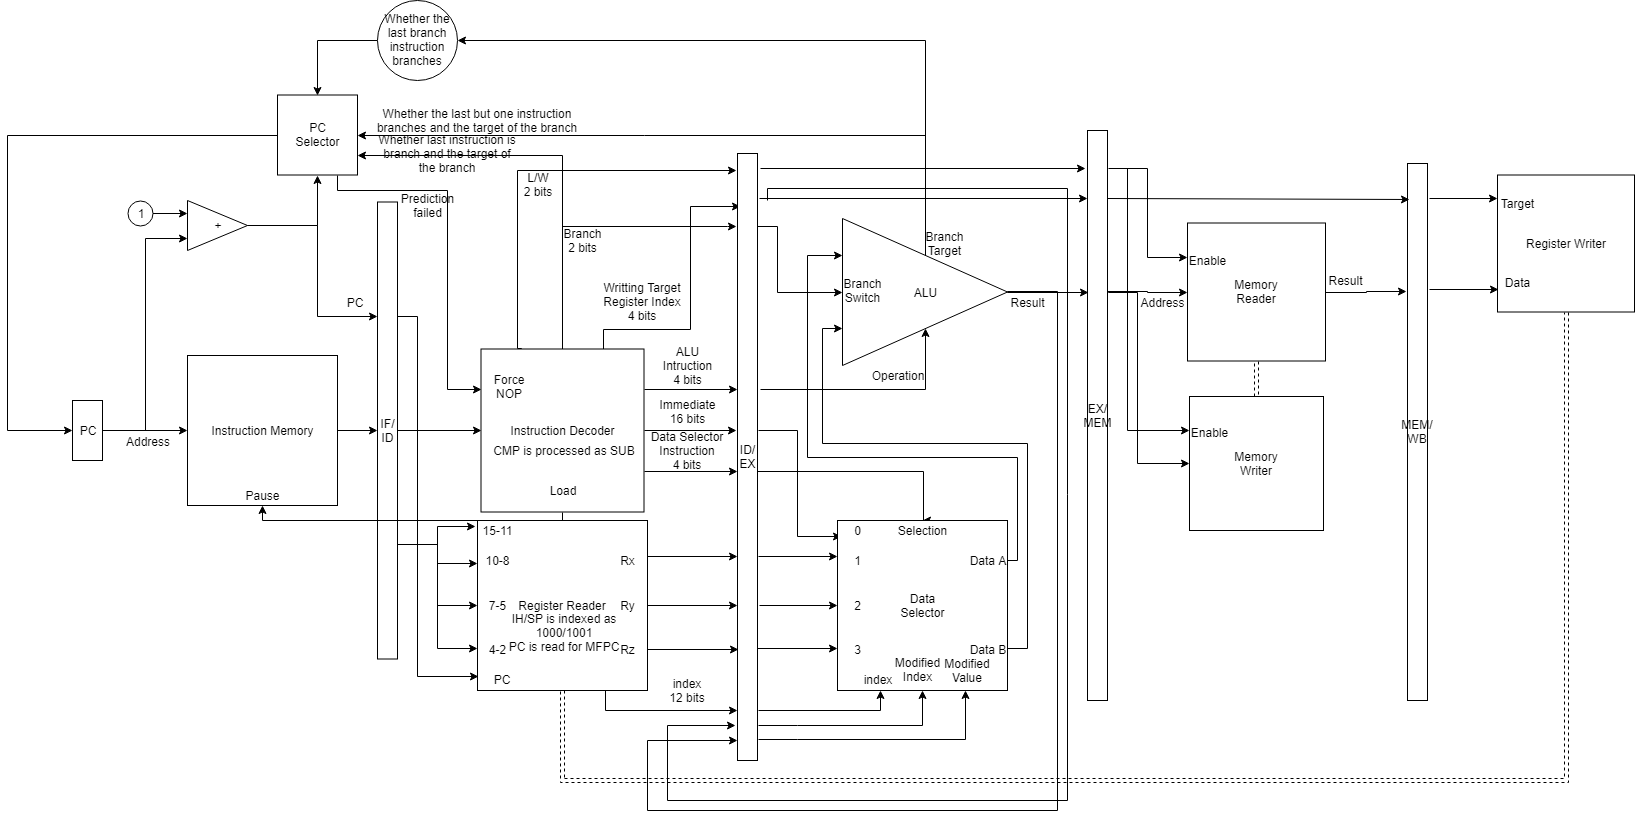
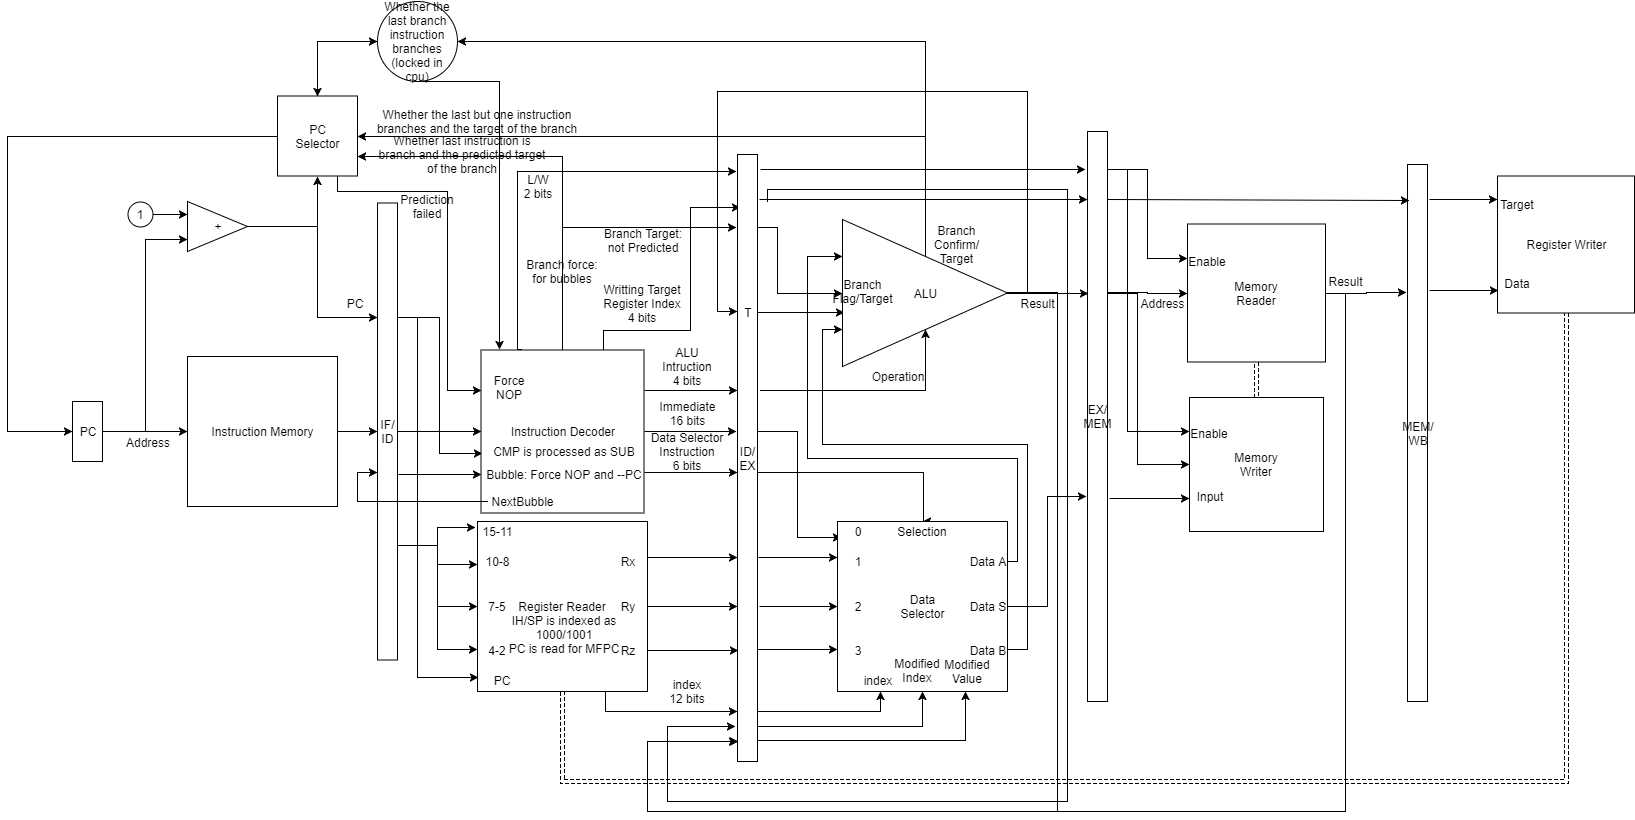
update datapath

diff --git a/auto-generation/decoder.py b/auto-generation/decoder.py
@@ -416,11 +416,11 @@ begin
     else
         if (%s) then
     ''' % (' or '.join(["(Bubble(%d) = '1')" % i for i in range(3)])))
-    output_instruction('NOP', f, ' ' * 8)
+    output_instruction('NOP', f, ' ' * 12)
     f.write('''
-        BranchForce <= '1';
-        BranchTarget <= PC0 + "%s";
-        BubbleNext <= Bubble + "111";
+            BranchForce <= '1';
+            BranchTarget <= PC0 + "%s";
+            BubbleNext <= Bubble + "111";
         else
     ''' % ('1'*16, ))
     for ins in decoder['instruction']:

diff --git a/doc/interface.md b/doc/interface.md
@@ -150,7 +150,7 @@ DataA(15 downto 0)：选择出的第一个数
 
 DataB(15 downto 0)：选择出的第二个数
 
-DataS(15 downto 0)：即将写入外部的数据【也就是在借助旁路更新之后获得的DataA的数值】
+DataS(15 downto 0)：即将写入外部的数据
 
 ## ALU模块（组合逻辑）
 
@@ -164,6 +164,8 @@ DataB(15 downto 0)：参与运算的第二个数
 
 AluInstruction(3 downto 0)：执行的ALU指令编号
 
+T：输入标志
+
 BranchTargetAlu(15 downto 0)：传递给ALU的跳转目标地址
 
 ### out
@@ -174,7 +176,7 @@ BranchConfirm：是否确认跳转
 
 BranchTargetConfirm(15 downto 0)：跳转目标
 
-T：输出标志
+Tout：输出标志
 
 Result(15 downto 0)：运算结果
 
